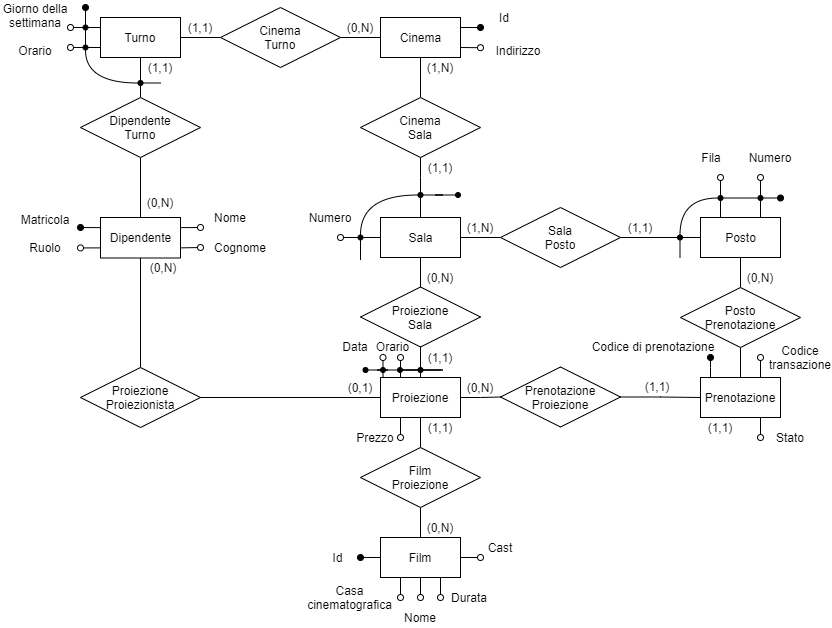
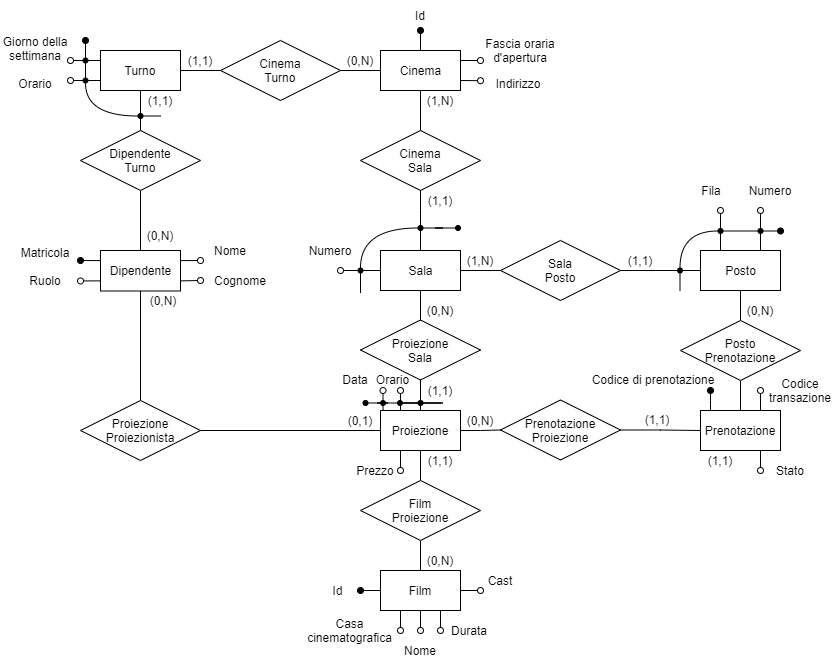
Update documentation

diff --git a/docs/chapters/progettazione_concettuale.tex b/docs/chapters/progettazione_concettuale.tex
@@ -16,7 +16,7 @@ rappresento come un'entità, ovvero il cinema, e lo si è modellato provando a
 soddisfare i requisiti relativi:
 
 \begin{center}
-    \includegraphics[width=3.5cm]{er_diagrams/er_1.png}
+    \includegraphics[width=5cm]{er_diagrams/er_1.png}
 \end{center}
 
 Il concetto successivo è proprio quello di sala, da cui si evince che è
@@ -129,6 +129,10 @@ identificativo artificiale.
     In una prenotazione devono coincidere il numero di sala del posto
     ed il numero di sala della proiezione.                    \\\hline
     I turni devono essere di massimo otto ore.                \\\hline
+    I turni in un cinema devono avvenire nella fascia oraria d'apertura
+    del cinema.                                               \\\hline
+    Le proiezione in un cinema devono avvenire nella fascia oraria d'apertura
+    del cinema.                                               \\\hline
     In una sala non possono essere proiettati più film contemporaneamente.
     \\ \hline
     \rowcolor{tblhdrcolor}
@@ -140,12 +144,6 @@ identificativo artificiale.
     I posti disponibili per una proiezione si ottengono rimuovendo dai posti
     della sala in cui avviene la proiezione i posti associati a tutte le
     prenotazioni confermate relative alla proiezione
-    \\ \hline
-    La fascia oraria d'apertura per un cinema in una giornata si ottiene
-    considerando l'intervallo temporale formato
-    dall'orario di inizio della prima proiezione della giornata nel cinema e
-    dall'orario d'inizio dell'ultima proiezione della giornata nel cinema
-    sommato alla durata del relativo film proiettato
     \\ \hline
 \end{longtable}
 
@@ -166,7 +164,8 @@ identificativo artificiale.
     \\ \hline
     Cinema
      & Un cinema facente parte della catena cinematografica.
-     & Indirizzo
+     & Fascia oraria d'apertura,
+    indirizzo
      & Id
     \\\hline
     Sala
